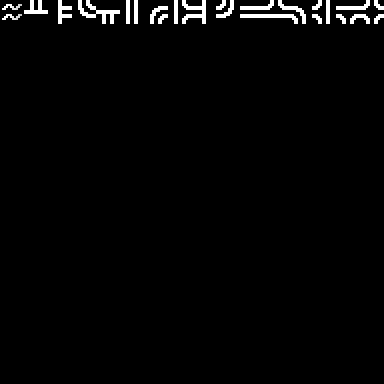
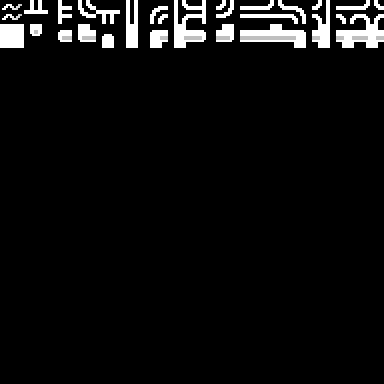
proper wall connection glyphs - also added set_terrain so painting of terrain doesn't wipe out struct

Changed region(s): [[0.5625, 0.0625, 1.0, 0.125], [0.1562, 0.0625, 0.5312, 0.125], [0.0, 0.0625, 0.125, 0.125]]

diff --git a/source/game/game.cpp b/source/game/game.cpp
@@ -24,7 +24,8 @@ Game::Game()
 	atlas_texture = load_texture_array(
 	{
 		"../../data/fonts/cp437_24x24.png",
-		"../../data/fonts/anikki_square_24x24.png",
+		// "../../data/fonts/anikki_square_24x24.png",
+		"../../data/fonts/nice_curses_24x24.png",
 		"../../data/fonts/urr_a_24x24.png",
 		"../../data/fonts/path_24x24.png",
 	});
@@ -57,7 +58,7 @@ Game::Game()
 	make_dev_type("farming", DevelopmentArea::urban, 0x007f, 0x40ef20_rgb32);
 
 	const auto wall_struct = next_struct_type_idx();
-	globals.structure_types.push_back({"wall", 0x00db, 0xafafaf_rgb32, StructureCategory::wall, 0});
+	globals.structure_types.push_back({"wall", 0x0310, 0xafafaf_rgb32, StructureCategory::wall, 0});
 
 	globals.city_rules.starting_dev_type = governing_dev;
 	globals.city_rules.starting_wall_type = wall_struct;
@@ -74,23 +75,21 @@ void Game::update()
 
 
 
-static void paint_square(Map& map, uint16_t tile_type, const Vec2i& center, int radius, const Globals& globals)
+static void paint_square(Map& map, TypeIndex terrain_type, const Vec2i& center, int radius, const Globals& globals)
 {
 	// TODO: move this function to map and let it do less glyph update
 	int r = (radius - 1);
-	const Tile tile{tile_type};
 	for (int dx = -r; dx <= r; dx++)
 	{
 		for (int dy = -r; dy <= r; dy++)
 		{
-			// TODO: should be setting the terrain only, here it's wiping out the structure data
-			map.set_tile(center + Vec2i{dx, dy}, tile);
+			map.set_terrain(center + Vec2i{dx, dy}, terrain_type);
 		}
 	}
 	map.update_glyphs({center - Vec2i{r, r}, center + Vec2i{r, r}}, globals);
 }
 
-static void paint_line(Map& map, uint16_t tile_type, const Vec2i& start, const Vec2i& end, int radius, const Globals& globals)
+static void paint_line(Map& map, TypeIndex terrain_type, const Vec2i& start, const Vec2i& end, int radius, const Globals& globals)
 {
 	// https://en.wikipedia.org/wiki/Bresenham's_line_algorithm#All_cases
 	// http://members.chello.at/~easyfilter/Bresenham.pdf
@@ -102,14 +101,14 @@ static void paint_line(Map& map, uint16_t tile_type, const Vec2i& start, const V
 	auto err = (dx + dy);
 	auto x = start.x;
 	auto y = start.y;
-	paint_square(map, tile_type, {x, y}, radius, globals);
+	paint_square(map, terrain_type, {x, y}, radius, globals);
 	while (!((x == end.x && y == end.y)))
 	{
 		const auto e2 = err * 2;
 		if (e2 >= dy) { err += dy; x += sx; }
 		if (e2 <= dx) { err += dx; y += sy; }
 		// TODO: if this gets too expensive, can just draw the deltas
-		paint_square(map, tile_type, {x, y}, radius, globals);
+		paint_square(map, terrain_type, {x, y}, radius, globals);
 	}
 }
 

diff --git a/source/game/map.cpp b/source/game/map.cpp
@@ -105,6 +105,26 @@ static inline uint8_t calc_neighbor_water_mask(const Map& map, const Array<Terra
 	return mask;
 }
 
+static inline uint8_t calc_neighbor_matching_structure_mask(const Map& map, uint32_t tile_struct, const Vec2i& tile_coords)
+{
+	// remind of ordering:
+	//       0    +Y
+	//     3 - 1   ^
+	//       2     | -> +X
+	const Vec2i offsets[] = { {0, 1}, {1, 0}, {0, -1}, {-1, 0} };
+	uint8_t mask = 0;
+	for (int i = 0; i < 4; i++)
+	{
+		const Id id = map.tile_id(tile_coords + offsets[i]);
+		const auto neighbor_struct = (id ? map.tiles[id_to_index(id)].structure : 0);
+		if (tile_struct == neighbor_struct)
+		{
+			mask |= (1 << i);
+		}
+	}
+	return mask;
+}
+
 void Map::update_glyphs(const Box2i dirty_tiles, const Globals& globals)
 {
 	for (int y = (dirty_tiles.min.y - 1); y <= (dirty_tiles.max.y + 1); y++)
@@ -122,6 +142,11 @@ void Map::update_glyphs(const Box2i dirty_tiles, const Globals& globals)
 					const auto& struct_type = globals.structure_types[tile.structure];
 					glyph.code = struct_type.glyph;
 					glyph.color = struct_type.color;
+					// TODO: probably more than just wall
+					if (struct_type.category == StructureCategory::wall)
+					{
+						glyph.code += calc_neighbor_matching_structure_mask(*this, tile.structure, tile_coords);
+					}
 				}
 				else
 				{

diff --git a/source/game/map.h b/source/game/map.h
@@ -38,6 +38,7 @@ struct Map
 	inline int chunk_coords_to_idx(const Vec2i& coords) const;
 	inline Vec2i chunk_idx_to_coords(int idx) const;
 	inline void set_tile(const Vec2i& coords, const Tile& tile);
+	inline void set_terrain(const Vec2i& coords, TypeIndex terrain_type);
 	inline void set_structure(const Vec2i& coords, TypeIndex structure_type);
 
 	void expand_to_fit_chunk(const Vec2i& coords);
@@ -111,6 +112,21 @@ inline void Map::set_tile(const Vec2i& coords, const Tile& tile)
 	Id tile_id = first_tile_id + (coords.x - chunk_first_tile(chunk_coords.x)) +
 		(coords.y - chunk_first_tile(chunk_coords.y)) * map_chunk_size;
 	tiles[id_to_index(tile_id)] = tile;
+}
+
+inline void Map::set_terrain(const Vec2i& coords, TypeIndex terrain_type)
+{
+	const auto id = tile_id(coords);
+	if (id)
+	{
+		tiles[id_to_index(id)].terrain = terrain_type;
+	}
+	else
+	{
+		Tile new_tile{};
+		new_tile.terrain = terrain_type;
+		set_tile(coords, new_tile);
+	}
 }
 
 inline void Map::set_structure(const Vec2i& coords, TypeIndex structure_type)

diff --git a/source/game/world.cpp b/source/game/world.cpp
@@ -46,6 +46,9 @@ Id create_city(World& world, const Vec2i& coords, const Globals& globals)
 	// TODO: everytime we create new city a new array is allocated
 	// ideally we could reuse it as the cities collection is essentially a pool
 	// maybe Array should provide a function optionally allocate (only if the handle has not been allocated)
+	// TODO: some terrains may be changed when city is placed for example forests will be cleared
+	// some terrain may remain e.g. the hilly area
+	// some terrain may prevent city from being placed e.g. mountainous, water etc.
 	city.devs.alloc(0, 128, world.allocator);
 	add_development(city, world.map, globals.city_rules.starting_dev_type, coords, globals);
 	setup_walls(city, world.map, globals.city_rules.starting_wall_type, globals);
